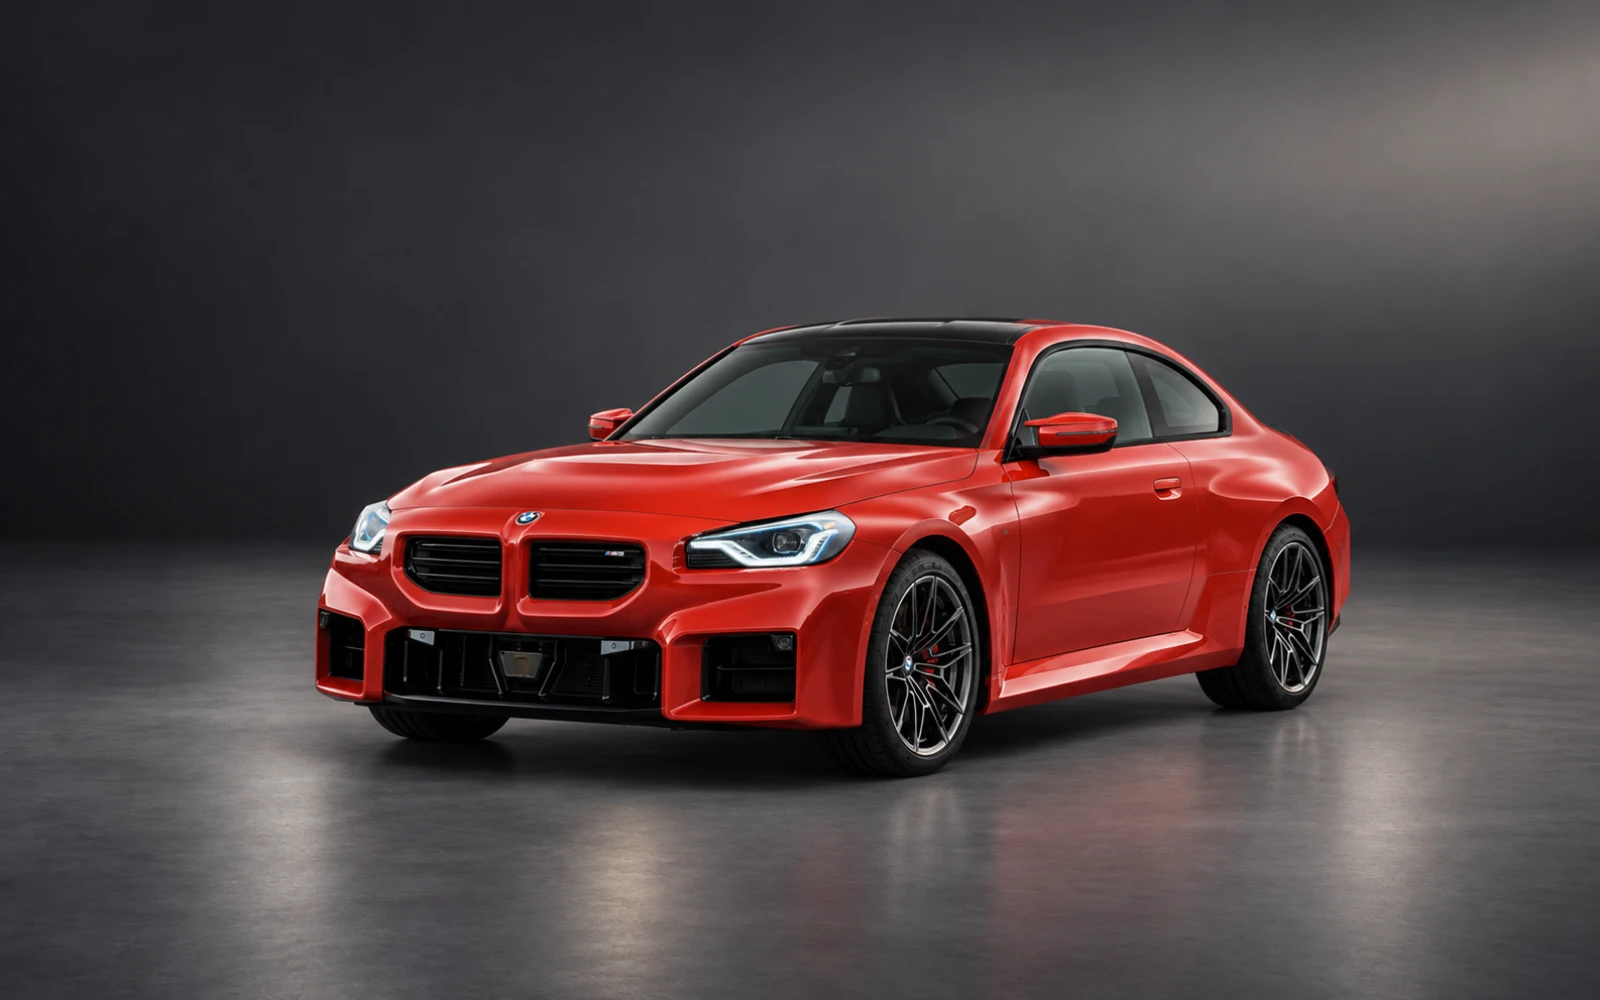
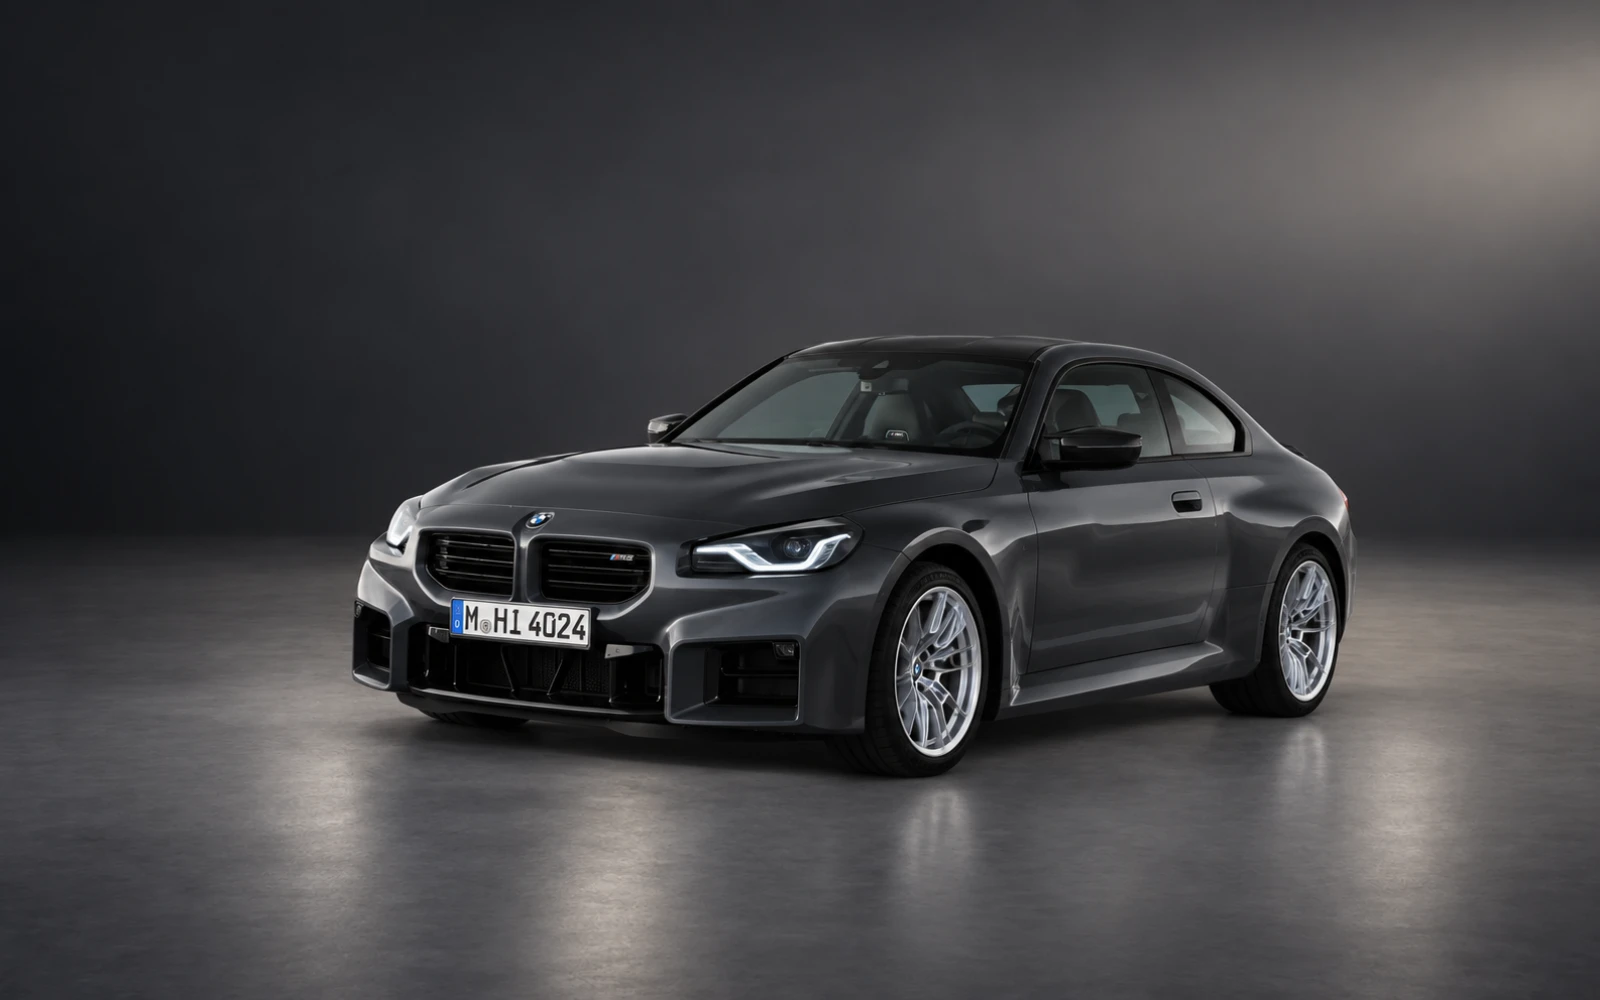
content: complete BMW M2 generations and update

Changed region(s): [[0.125, 0.31, 1.0, 1.0], [0.5625, 0.744, 0.7812, 0.899], [0.8438, 0.806, 0.9062, 0.868]]

diff --git a/src/data/models.ts b/src/data/models.ts
@@ -1448,10 +1448,10 @@ export const families: ModelFamily[] = [
     brand: "BMW",
     vehicleKind: "Автомобиль",
     name: "M2",
-    aliases: ["BMW M2", "БМВ М2", "эм два", "G87", "M2 G87"],
+    aliases: ["BMW M2", "БМВ М2", "эм два", "F87", "G87", "M2 G87"],
     tagline: "Компактное купе BMW M с классическим задним приводом.",
     summary:
-      "Второе поколение M2 сочетает компактный двухдверный кузов G87, рядную шестёрку и задний привод. Это самостоятельная модель BMW M, а не версия M Performance обычной 2 Series.",
+      "От первого F87 до актуального G87: компактные двухдверные купе с рядной шестёркой, задним приводом и собственной историей BMW M. Это самостоятельная модель BMW M, а не версия M Performance обычной 2 Series.",
     body: ["Купе"],
     source: "bmw-m2-g87-launch",
     countries: ["Мексика"],
@@ -1459,6 +1459,39 @@ export const families: ModelFamily[] = [
       "G87 выпускается на заводе BMW Group в Сан-Луис-Потоси вместе с 2 Series Coupé; другие рынки и производственные периоды требуют отдельной проверки.",
     volume: null,
     generations: [
+      g(
+        "bmw-m2-f87",
+        "I",
+        "F87",
+        2016,
+        2021,
+        "Первый BMW M2 продолжил линию компактных M Coupé: рядная шестёрка, задний привод, активный M Differential и опциональная семиступенчатая M DCT.",
+        "bmw-m2-f87-launch",
+        {
+          dateScope:
+            "Первый публичный пресс-кит F87: февраль 2016. Отдельные сроки производства и версии Competition/CS требуют собственных источников.",
+          highlights: [
+            "Купе F87 стало первым M2 и сохранило классическую заднеприводную компоновку.",
+            "Стартовая рядная шестёрка 3,0 л развивала 370 л.с. и 465 Н·м в режиме overboost.",
+            "Опциональная M DCT с Launch Control разгоняла M2 до 100 км/ч за 4,3 секунды по пресс-киту BMW.",
+          ],
+          powertrains: [
+            p(
+              "bmw-m2-f87-n55-launch",
+              "Рядная шестёрка 3.0 M TwinPower Turbo",
+              "Бензин",
+              370,
+              465,
+              "6-ступенчатая механическая или 7-ступенчатая M DCT",
+              "Задний",
+              "Стартовая европейская спецификация",
+              "2016-02-17",
+              "bmw-m2-f87-launch",
+              "hp",
+            ),
+          ],
+        },
+      ),
       g(
         "bmw-m2-g87",
         "II",
@@ -1476,6 +1509,17 @@ export const families: ModelFamily[] = [
             "Рядный шестицилиндровый двигатель развивает 460 л.с. и 550 Н·м в стартовой мировой спецификации.",
             "Глобальный запуск состоялся в апреле 2023 года; производство идёт в Сан-Луис-Потоси, Мексика.",
           ],
+          revisions: [
+            {
+              year: 2024,
+              kind: "model-year",
+              title:
+                "Мощность повышена до 480 л.с.; обновлены внешний декор, оснащение и BMW Operating System 8.5.",
+              source: "bmw-m2-g87-2024-update",
+              market: "Мировая гамма",
+              bodies: ["Купе"],
+            },
+          ],
           powertrains: [
             p(
               "bmw-m2-g87-launch-s58",
@@ -1488,6 +1532,32 @@ export const families: ModelFamily[] = [
               "Глобальная стартовая спецификация",
               "2022-10-12",
               "bmw-m2-g87-launch",
+              "hp",
+            ),
+            p(
+              "bmw-m2-g87-2024-s58",
+              "Рядная шестёрка 3.0 M TwinPower Turbo",
+              "Бензин",
+              480,
+              600,
+              "8-ступенчатая M Steptronic",
+              "Задний",
+              "Мировая спецификация 2024",
+              "2024-06-13",
+              "bmw-m2-g87-2024-update",
+              "hp",
+            ),
+            p(
+              "bmw-m2-g87-2024-s58-manual",
+              "Рядная шестёрка 3.0 M TwinPower Turbo",
+              "Бензин",
+              480,
+              550,
+              "6-ступенчатая механическая",
+              "Задний",
+              "Мировая спецификация 2024",
+              "2024-06-13",
+              "bmw-m2-g87-2024-update",
               "hp",
             ),
           ],

diff --git a/src/data/assets/index.ts b/src/data/assets/index.ts
@@ -221,23 +221,45 @@ const photoByGeneration: Record<string, PhotoMetadata> = {
     "https://www.bmw-m.com/en/topics/magazine-article-pool/bmw-m1-from-procar-to-icon.html",
     "BMW M1 · E26, 1978",
   ),
-  "bmw-m2-g87": editorialPhoto(
-    "editorial-bmw-m2-g87.webp",
-    "https://www.press.bmwgroup.com/global/article/detail/T0404444EN/the-all-new-bmw-m2",
-    "BMW M2 · G87, 2023",
+  "bmw-m2-f87": editorialPhoto(
+    "editorial-bmw-m2-f87.webp",
+    "https://www.press.bmwgroup.com/global/article/detail/T0238042EN/the-new-bmw-m2-coupe",
+    "BMW M2 Coupé · F87, 2016",
     {
       publisher: "BMW Group PressClub",
-      page: "https://www.press.bmwgroup.com/global/photo/detail/P90497773/the-all-new-bmw-m2-toronto-red-on-location-driving-04/2023",
+      page: "https://www.press.bmwgroup.com/global/photo/detail/P90210238/the-new-bmw-m2-coupe-07/2016",
       imageUrl:
-        "https://mediapool.bmwgroup.com/download/edown/pressclub/publicq?actEvent=image&attachment=1&dokNo=P90497773",
-      localFile: "references/images/P90497773-bmw-m2-g87.jpg",
-      imageId: "P90497773",
+        "https://mediapool.bmwgroup.com/download/edown/pressclub/publicq?actEvent=image&attachment=1&dokNo=P90210238",
+      localFile: "references/images/P90210238-bmw-m2-f87.jpg",
+      imageId: "P90210238",
       phase: "launch",
+      verifiedDetails: [
+        "двухдверный кузов Coupé F87",
+        "раздельные M-решётки с вертикальными планками",
+        "круглые световые модули фар",
+        "центральная сетка и боковые воздухозаборники переднего бампера",
+        "M-жабер на переднем крыле",
+        "расширенные арки и штатные M-колёса",
+      ],
+    },
+  ),
+  "bmw-m2-g87": editorialPhoto(
+    "editorial-bmw-m2-g87.webp",
+    "https://www.press.bmwgroup.com/global/article/detail/T0442878EN/the-new-bmw-m2",
+    "BMW M2 · G87, обновление 2024",
+    {
+      publisher: "BMW Group PressClub",
+      page: "https://www.press.bmwgroup.com/global/photo/detail/P90553471/the-new-bmw-m2-06/2024",
+      imageUrl:
+        "https://mediapool.bmwgroup.com/download/edown/pressclub/publicq?actEvent=image&attachment=1&dokNo=P90553471",
+      localFile: "references/images/P90553471-bmw-m2-g87-2024.jpg",
+      imageId: "P90553471",
+      phase: "model-year",
       verifiedDetails: [
         "двухдверный кузов Coupé G87",
         "горизонтальная безрамочная M-решётка",
         "трёхсекционный нижний воздухозаборник",
-        "фары с одиночными круглыми модулями",
+        "фары с одиночными модулями и U-образными нижними световодами",
         "расширенные колёсные арки и боковые пороги",
         "передние 19-дюймовые и задние 20-дюймовые M-колёса",
       ],

diff --git a/src/data/sources.ts b/src/data/sources.ts
@@ -257,6 +257,15 @@ export const sources: Source[] = [
     url: "https://www.bmw-m.com/en/topics/magazine-article-pool/bmw-m1-from-procar-to-icon.html",
   },
   {
+    id: "bmw-m2-f87-launch",
+    title: "Новый BMW M2 Coupé (F87)",
+    publisher: "BMW Group PressClub",
+    date: "2016-02-17",
+    scope:
+      "Первое поколение M2: код F87, двухдверный кузов Coupé, рядная шестёрка 370 л.с., задний привод и M DCT",
+    url: "https://www.press.bmwgroup.com/global/article/detail/T0238042EN/the-new-bmw-m2-coupe",
+  },
+  {
     id: "bmw-m2-g87-launch",
     title: "Новый BMW M2 (G87)",
     publisher: "BMW Group PressClub",
@@ -264,6 +273,15 @@ export const sources: Source[] = [
     scope:
       "Второе поколение M2: код G87, двухдверный кузов, мировой запуск в апреле 2023 года, рядная шестёрка 460 л.с., задний привод и производство в Сан-Луис-Потоси",
     url: "https://www.press.bmwgroup.com/global/article/detail/T0404444EN/the-all-new-bmw-m2",
+  },
+  {
+    id: "bmw-m2-g87-2024-update",
+    title: "Обновлённый BMW M2 (G87), 2024",
+    publisher: "BMW Group PressClub",
+    date: "2024-06-13",
+    scope:
+      "Model-year обновление G87: 480 л.с., 550 Н·м с механической и 600 Н·м с M Steptronic коробкой, новые наружные акценты и Operating System 8.5",
+    url: "https://www.press.bmwgroup.com/global/article/detail/T0442878EN/the-new-bmw-m2",
   },
   {
     id: "bmw-m3-generations",

diff --git a/src/data/packs/bmw-m-i/manifest.ts b/src/data/packs/bmw-m-i/manifest.ts
@@ -8,7 +8,7 @@ export interface MIInventoryItem {
   generationId: string;
   status: MICoverageStatus;
   sourceIds: string[];
-  imagePhase: "launch" | "facelift";
+  imagePhase: "launch" | "facelift" | "model-year";
   missingFields: string[];
 }
 
@@ -22,9 +22,20 @@ export const bmwMIInventory: MIInventoryItem[] = [
     generation: "G87",
     generationId: "bmw-m2-g87",
     status: "detailed",
-    sourceIds: ["bmw-m2-g87-launch"],
+    sourceIds: ["bmw-m2-g87-launch", "bmw-m2-g87-2024-update"],
+    imagePhase: "model-year",
+    missingFields: ["M2 xDrive 2026", "оценки безопасности"],
+  },
+  {
+    id: "bmw-m-i-m2-f87",
+    lineage: "M",
+    family: "M2",
+    generation: "F87",
+    generationId: "bmw-m2-f87",
+    status: "detailed",
+    sourceIds: ["bmw-m2-f87-launch"],
     imagePhase: "launch",
-    missingFields: ["M2 F87", "обновление G87 2024", "оценки безопасности"],
+    missingFields: ["M2 Competition", "M2 CS", "оценки безопасности"],
   },
   {
     id: "bmw-m-i-m4-g82-lci",

diff --git a/src/data/snapshot.test.ts b/src/data/snapshot.test.ts
@@ -37,7 +37,7 @@ describe("BMW distribution", () => {
   });
   it("uses the unified editorial image set for every detailed generation", () => {
     const photos = families.flatMap((f) => f.generations.map((g) => g.photo));
-    expect(photos).toHaveLength(61);
+    expect(photos).toHaveLength(62);
     expect(
       photos.every((p) => p?.url.startsWith("images/editorial-bmw-")),
     ).toBe(true);
@@ -45,8 +45,8 @@ describe("BMW distribution", () => {
       photos.every((p) => p?.note?.includes("Редакционная визуализация")),
     ).toBe(true);
   });
-  it("keeps the current flagship M visuals tied to exact press photographs", () => {
-    for (const id of ["bmw-m2-g87", "bmw-m3-g80", "bmw-m5-g90"]) {
+  it("keeps the flagship M visuals tied to exact press photographs", () => {
+    for (const id of ["bmw-m2-f87", "bmw-m2-g87", "bmw-m3-g80", "bmw-m5-g90"]) {
       const reference = assetByGeneration[id].reference;
       expect(reference?.imageId).toMatch(/^P\d+$/);
       expect(reference?.page).toContain(reference?.imageId);

diff --git a/src/data/packs/bmw-m-i/manifest.test.ts b/src/data/packs/bmw-m-i/manifest.test.ts
@@ -39,6 +39,6 @@ describe("BMW M and i progress manifest", () => {
       bmwMIInventory
         .filter((entry) => entry.lineage === "M")
         .map((entry) => entry.family),
-    ).toEqual(["M2", "M4", "XM"]);
+    ).toEqual(["M2", "M2", "M4", "XM"]);
   });
 });

diff --git a/src/domain/catalog.ts b/src/domain/catalog.ts
@@ -71,7 +71,7 @@ export interface Photo {
     imageUrl: string;
     localFile: string;
     imageId: string;
-    phase: "launch" | "facelift" | "historical";
+    phase: "launch" | "facelift" | "model-year" | "historical";
     verifiedDetails: string[];
   };
 }

diff --git a/docs/catalog-status.md b/docs/catalog-status.md
@@ -2,7 +2,7 @@
 
 Индекс NHTSA: 260 названий BMW, снимок 2026-09-06. Это названия, не полные технические карточки.
 
-Исследованных историй: 16. Поколений / обзорных ветвей: 61. С фотографией: 61. Силовых записей: 49. Источников фактов: 95.
+Исследованных историй: 16. Поколений / обзорных ветвей: 62. С фотографией: 62. Силовых записей: 52. Источников фактов: 97.
 
 | Семейство | Поколение / ветвь     | Фото | Силовых записей | Известных обновлений | Оценка безопасности |
 | --------- | --------------------- | ---- | --------------- | -------------------- | ------------------- |
@@ -43,7 +43,8 @@
 | 7 Series  | G11 / G12             | Есть | Не добавлены    | 1                    | Не добавлена        |
 | 7 Series  | G70                   | Есть | 1               | Не добавлены         | Не добавлена        |
 | M1        | E26                   | Есть | 1               | Не добавлены         | Не добавлена        |
-| M2        | G87                   | Есть | 1               | Не добавлены         | Не добавлена        |
+| M2        | F87                   | Есть | 1               | Не добавлены         | Не добавлена        |
+| M2        | G87                   | Есть | 3               | Не добавлены         | Не добавлена        |
 | M3        | E30                   | Есть | 1               | Не добавлены         | Не добавлена        |
 | M3        | E36                   | Есть | 1               | Не добавлены         | Не добавлена        |
 | M3        | E46                   | Есть | 1               | Не добавлены         | Не добавлена        |
